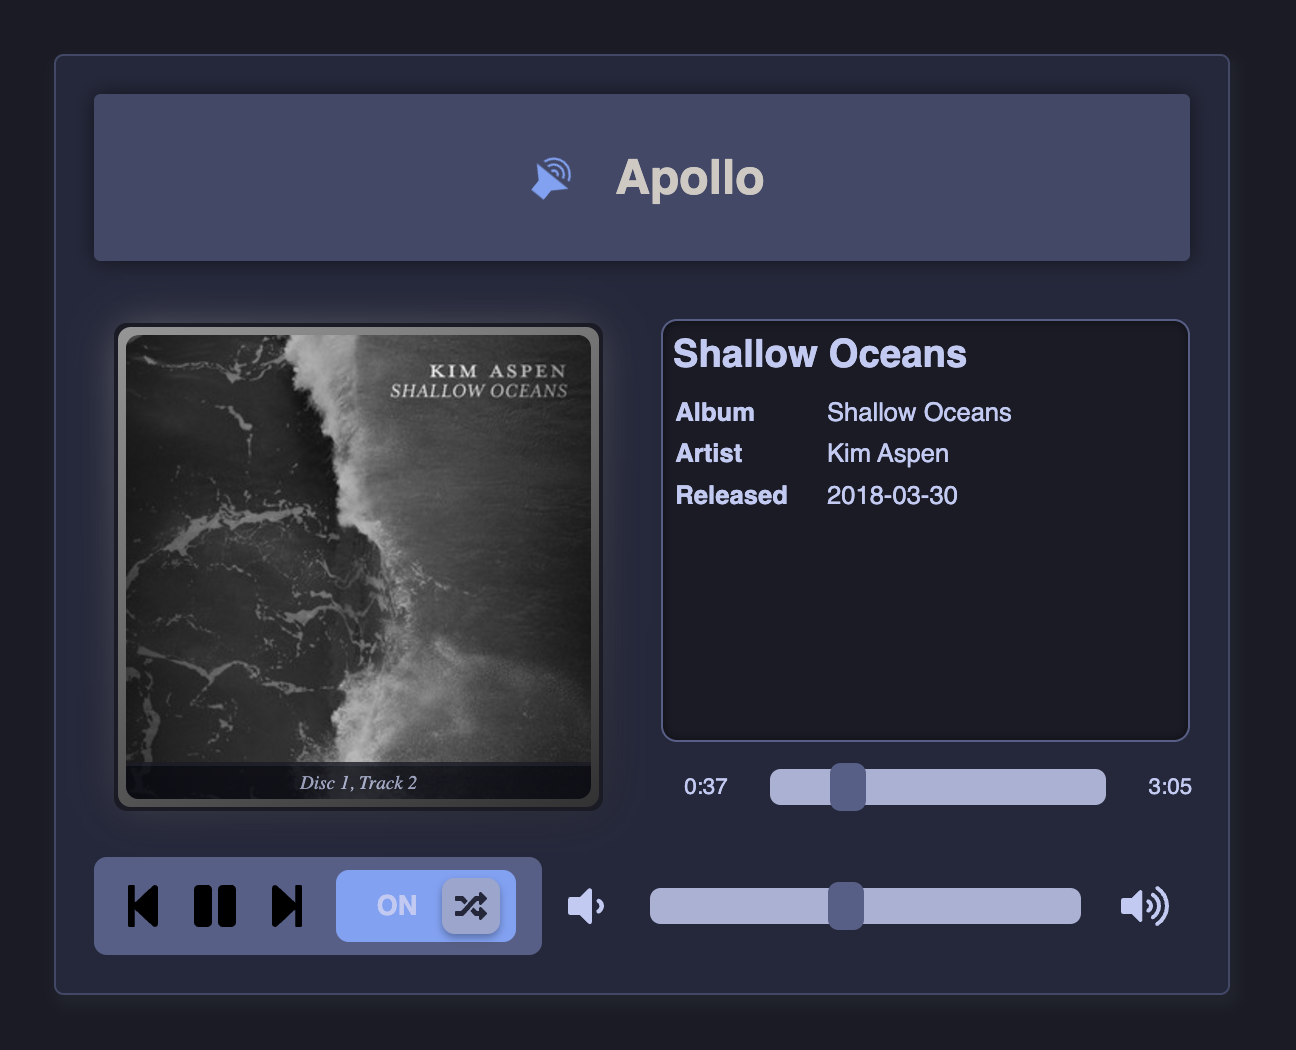
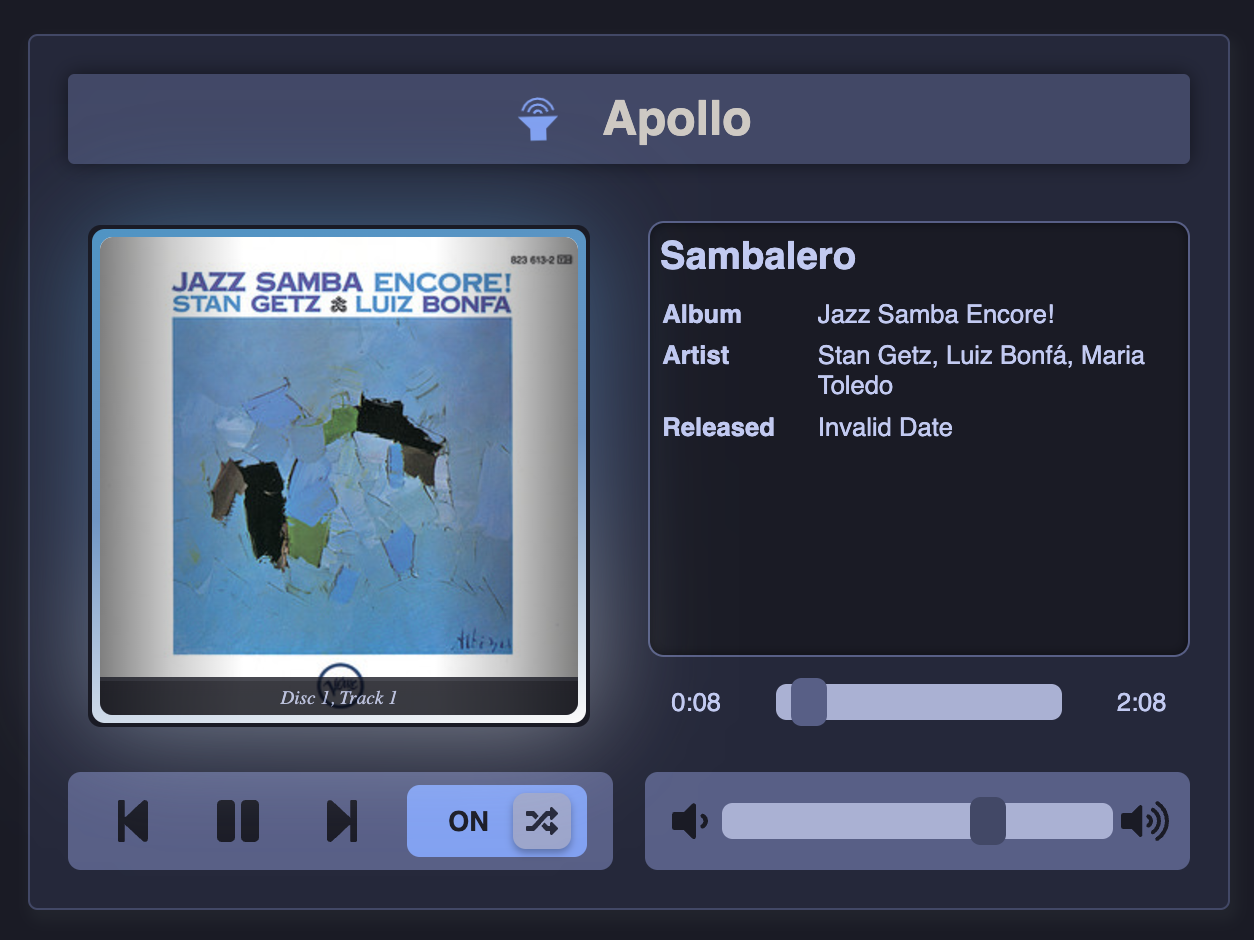
Restyle

diff --git a/src/components/Controls/VolumeControls.css b/src/components/Controls/VolumeControls.css
@@ -3,18 +3,21 @@
 
 .spotify-player-volume-control {
   display: flex;
-  flex: 3;
   align-items: center;
-  gap: 1rem;
-  width: 100%;
-  margin: 0.4em;
+  justify-content: space-between;
+  background: var(--button-background);
+  border-radius: 0.4em;
+  padding-left: 0.4em;
+  padding-right: 0.4em;
   max-width: 500px;
+  flex: 1;
 }
 
 .spotify-player-volume-control span{
   width: 32px;
   height: 32px;
   font-size: 1.5rem;
+  color: var(--darkest);
   justify-content: center;
   align-items: center;
   display: flex;
@@ -60,7 +63,7 @@
   width: 18px;
   height: 24px;
   border-radius: 0.4em;
-  background: var(--grey);
+  background: var(--dark);
   position: relative;
   top: -3px;
   cursor: pointer;
@@ -72,7 +75,7 @@
 }
 
 .spotify-player-volume-slider::-webkit-slider-thumb:hover {
-  background: var(--green);
+  background: var(--blue);
   transform: scale(1.2);
 }
 

diff --git a/src/components/MediaPlayer.css b/src/components/MediaPlayer.css
@@ -48,6 +48,7 @@
 .spotify-player-default-layout .spotify-player-footer {
   display: flex;
   justify-content: space-between;
+  gap: 1em;
 }
 
 .spotify-player-default-layout .spotify-player-info-container {
@@ -77,6 +78,7 @@
 
 .spotify-player-portrait-layout .spotify-player-info-container {
   flex-direction: column;
+  align-items: stretch;
 }
 
 .spotify-player-portrait-layout .spotify-player-bottom {
@@ -100,12 +102,14 @@
   flex: 2;
   display: flex;
   flex-direction: column;
-  gap: 1em;
+  gap: 0;
+  height: 100%;
 }
 
 .spotify-player-widescreen-layout .spotify-player-right {
   flex: 1;
   display: flex;
   flex-direction: column;
-  gap: 1em;
+  gap: 0;
+  height: 100%;
 }

diff --git a/src/components/Controls/MediaButtons.css b/src/components/Controls/MediaButtons.css
@@ -10,6 +10,7 @@
   padding-left: 0.4em;
   padding-right: 0.4em;
   max-width: 500px;
+  flex: 1;
 }
 
 /* Media button styling */
@@ -28,6 +29,7 @@
   width: 36px;
   font-size: 1.5rem;
   background: var(--button-background);
+  color: var(--darkest);
   border-radius: 0.4em;
   cursor: pointer;
 }
@@ -91,7 +93,7 @@
   flex: 1;
   font-size: 0.85rem;
   font-weight: bold;
-  color: var(--text-color);
+  color: var(--darkest);
   padding: 0 8px;
   text-align: center;
   user-select: none;
@@ -103,6 +105,7 @@
   height: 28px;
   border-radius: 0.4em;
   background: var(--light);
+  color: var(--darkest);
   display: flex;
   align-items: center;
   justify-content: center;

diff --git a/src/components/Info/DeviceTitle.css b/src/components/Info/DeviceTitle.css
@@ -11,7 +11,7 @@
   justify-content: center;
   box-shadow: 0 0 10px rgba(0, 0, 0, 0.5);
   align-items: center;
-  padding: 0.5em;
+  padding: 0.4em;
   padding-left: 0.3em;
   padding-right: 0.3em;
   border-radius: 0.2em;
@@ -27,7 +27,7 @@
   font-size: 1.5rem;
   color: var(--weird);
   text-align: center;
-  margin: 20px 0;
+  margin: 0;
   transition: transform 0.2s, color 0.3s ease;
 }
 

diff --git a/src/components/Controls/SeekControls.css b/src/components/Controls/SeekControls.css
@@ -7,13 +7,18 @@
   gap: 1rem;
   width: 100%;
   margin: 0.4em;
+  margin-left: 0;
   max-width: 500px;
 }
 
+.spotify-player-widescreen-layout .spotify-player-seek-container {
+  flex: 1;
+}
+
 .spotify-player-seek-container span {
-  width: 32px;
+  width: 48px;
   height: 32px;
-  font-size: 0.7rem;
+  font-size: 0.8rem;
   justify-content: center;
   align-items: center;
   display: flex;

diff --git a/README.md b/README.md
@@ -42,6 +42,11 @@ REACT_APP_WS_URL=ws://apollo:3678/events
 ```
 
 Run `npm run test` for local debugging.
+Run `npm run static` to generate the build folder.
+
+TODO: build instructions
+TODO: nginx instructions
+TODO: OS instructions (auto-login, open browser, etc)
 
 ## Module
 
@@ -56,16 +61,16 @@ import MediaPlayer from "@stronk-tech/spotify-player";
 <MediaPlayer websocketUrl={"ws://apollo:3678/events"} apiBaseUrl={"http://apollo:3678"} hideOnDisconnect={true} />
 ```
 
-If you set `hideOnDisconnect` to true, the entire component will hide itself when there is no connection to the API endpoint.
+If you set `hideOnDisconnect` to true, the entire component will hide itself when there is no connection to the API endpoint. Otherwise it will display an error state (an retry the connection of course).
 
 # Screen shots
 The player arranges itself based on the screen dimensions, with three possible layouts:
 
 ### Default layout
-![Default](screenshot_default.png)
+[Default](screenshot_default.png)
 
-### Wide screen
+### Widescreen
 ![Wide](screenshot_wide.png)
 
-### Portrait screen
+### Portrait
 ![Portrait](screenshot_portrait.png)
